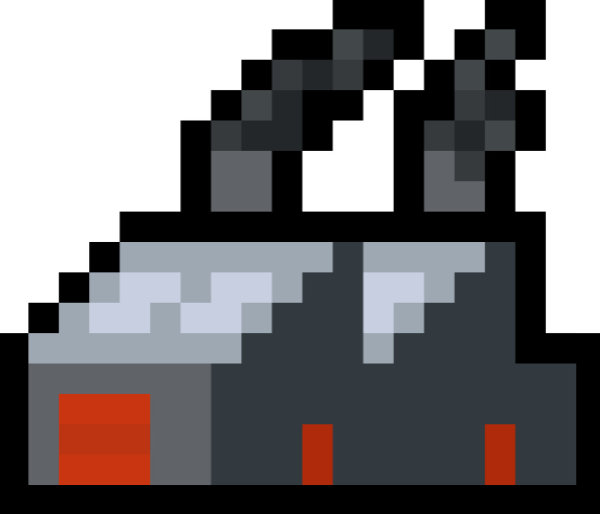
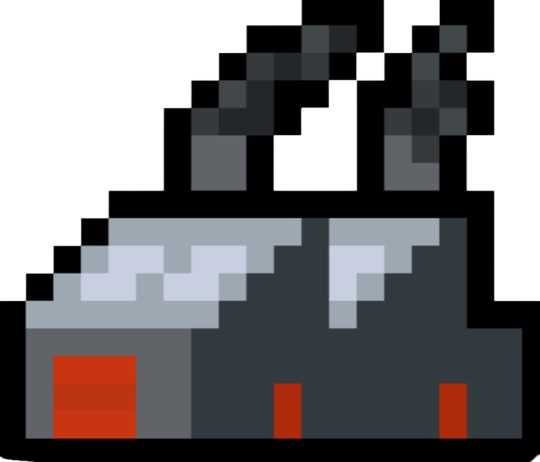
added plants

diff --git a/main.py b/main.py
@@ -1,5 +1,5 @@
 from src import *
-import pygame, logging
+import pygame, logging, random
 
 logging.basicConfig(level=logging.DEBUG)
 
@@ -17,6 +17,9 @@ map = Map(screen, player)
 zoom = 0.1
 run = True
 scroll = False
+
+plants = [Plant(player, screen, random.randint(0, 1920), random.randint(0, 1080)) for i in range(0, 10)]
+
 while run: 
     for event in pygame.event.get(): 
         if event.type == pygame.QUIT:
@@ -26,18 +29,11 @@ while run:
             if event.button == 2:
                 scroll = True
             if event.button == 4:
-                for i in range(0, 10):
-                    player.zoom += zoom/10
-                    pygame.time.delay(20)
+                player.zoom += zoom
                
-                zoom += (zoomIncrement)
-                zoomIncrement += (zoomIncrement * 0.1)
             elif event.button == 5:
-                for i in range(0, 10):
-                    player.zoom -= zoom/10
-                    pygame.time.delay(20)
-                zoom += zoomIncrement
-                zoomIncrement += (zoomIncrement * 0.1)
+                player.zoom -= zoom
+
 
         elif event.type == pygame.MOUSEBUTTONUP:
             if event.button == 2:
@@ -65,6 +61,11 @@ while run:
                     
     screen.fill((0, 105, 170))
     map.render()
+
+    for plant in plants:
+        if plant.rect.collidepoint(pygame.mouse.get_pos()):
+            print(random.randint(0, 100))
+        plant.render()
 
     pygame.display.flip()
 

diff --git a/src/plant.py b/src/plant.py
@@ -5,21 +5,19 @@ class Plant:
         self.player = player
         self.screen = screen
 
-        self.image = pygame.image.load()
-
+        self.image = pygame.image.load("assets\\factory.png")
+        self.image = pygame.transform.scale(self.image, (100, 100))
+        self.width, self.height = pygame.display.get_surface().get_size()
+        self.rect = self.image.get_rect()
         self.x, self.y = x, y
     
     def render(self):
-        width = int(self.rect.width * self.player.zoom)
-        height = int(self.rect.height * self.player.zoom)
-        
-        try:
-            scaled_map = self.cache[(width, height)]
-        except KeyError:
-            scaled_map = pygame.transform.scale(self.image, (width, height))
-            self.cache[(width, height)] = scaled_map
-
         offset_x = (self.width // 2) - (self.player.x * self.player.zoom)
         offset_y = (self.height // 2) - (self.player.y * self.player.zoom)
 
-        self.screen.blit(scaled_map, (offset_x, offset_y))
+        zoomed_x = (self.x * self.player.zoom) + offset_x
+        zoomed_y = (self.y * self.player.zoom) + offset_y
+
+        scaled_image = pygame.transform.scale(self.image, (int(100 * self.player.zoom // 2), int(100 * self.player.zoom // 2)))
+
+        self.screen.blit(scaled_image, (zoomed_x, zoomed_y))

diff --git a/src/map.py b/src/map.py
@@ -7,10 +7,10 @@ class Map:
 
         self.width, self.height = pygame.display.get_surface().get_size()
 
-        self.map = pygame.image.load("assets\\map.png")
-        self.map = pygame.transform.scale(self.map, (self.width, self.height))
+        self.image = pygame.image.load("assets\\map.png")
+        self.image = pygame.transform.scale(self.image, (self.width, self.height))
         
-        self.rect = self.map.get_rect()
+        self.rect = self.image.get_rect()
         self.screen = screen
         self.player = player
 
@@ -23,7 +23,7 @@ class Map:
         try:
             scaled_map = self.cache[(width, height)]
         except KeyError:
-            scaled_map = pygame.transform.scale(self.map, (width, height))
+            scaled_map = pygame.transform.scale(self.image, (width, height))
             self.cache[(width, height)] = scaled_map
 
         offset_x = (self.width // 2) - (self.player.x * self.player.zoom)

diff --git a/src/__init__.py b/src/__init__.py
@@ -1,3 +1,4 @@
 from src.settings import Settings
 from src.player import Player
 from src.map import Map
+from src.plant import Plant
